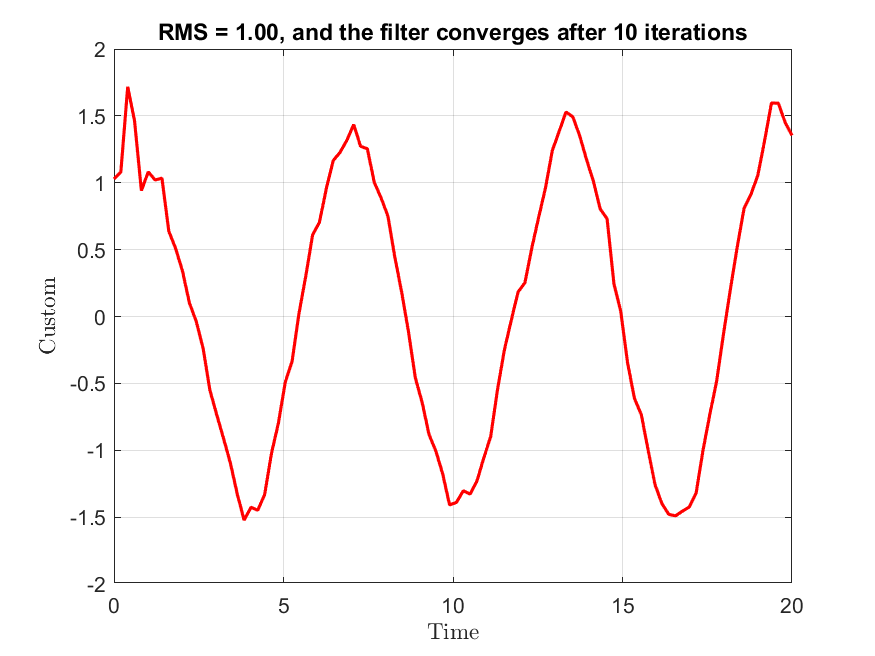
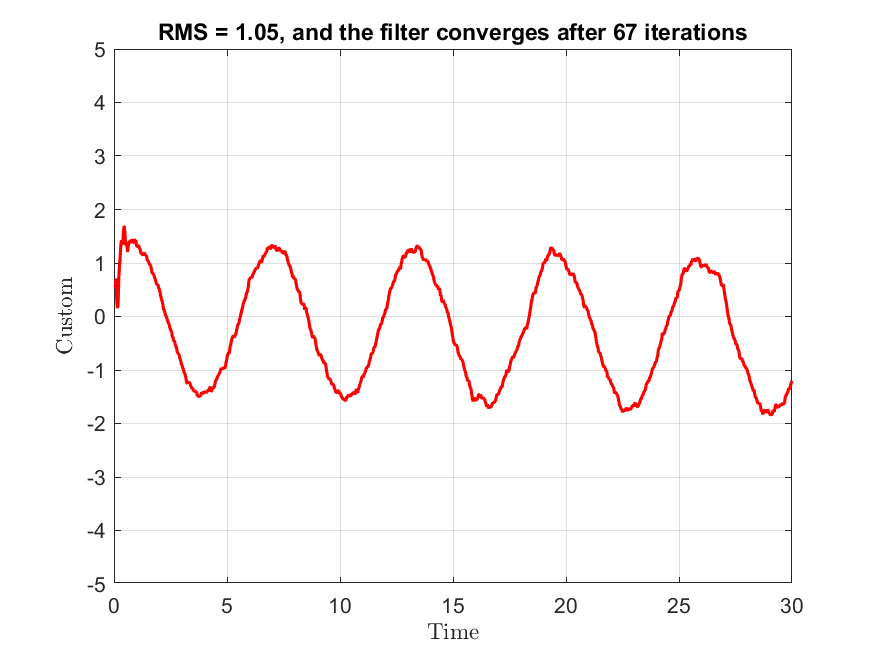
Modified the model and the ground truth

diff --git a/examples/test.m b/examples/test.m
@@ -1,13 +1,14 @@
 clc; clear; close all;
 
 %% Filter configuration
+savePics = false; 
 waitbar  = true;
 n_states = 2;
-Q  = diag([0, 0.05^2]);
+Q  = diag([0, 0.02^2]);
 R  = 0.1^2;
 
 %% Filter initiation
-t_vec = linspace(0, 20, 1e2)';
+t_vec = linspace(0, 30, 1e3)';
 X_GT  = groundTruth(t_vec, [0; 1]);
 X0    = rand(2, 1);
 P0    = diag([1, 1]);
@@ -26,22 +27,27 @@ ekf.estimate(t_vec, X0, P0);
 %% Visualization
 opts = {'OneAxis', false, 'showpatch', true, 'ylabel', {'$\Delta$ Position', '$\Delta$ Velocity'}, 'ylim', []};
 ekf.plot_err(1:2, t_vec, opts, '*', 'MarkerSize', 5);
-print('./postProcessing/Error', '-dpng');
+if savePics
+    print('./postProcessing/Error', '-dpng');
+end
 
 opts = {'OneAxis', true, 'legend', {'Position', 'Velocity'}, 'ylim', [], 'pltGT', true};
 ekf.plot_states(1:2, t_vec, opts, 'LineWidth', 1.5)
-print('./postProcessing/States', '-dpng');
-
+if savePics
+    print('./postProcessing/States', '-dpng');
+end
 
 opts = {'OneAxis', false, 'ylabel', {'$\sigma_{pos}$', '$\sigma_{vel}$'}, 'ylim', []};
 ekf.plot_est_sd(1:2, t_vec, opts, '.')
-print('./postProcessing/StanderdDeviation', '-dpng');
+if savePics
+    print('./postProcessing/StanderdDeviation', '-dpng');
+end
 
-
-opts = {'ylabel', {'Custom'}, 'ylim', [-2, 2]};
+opts = {'ylabel', {'Custom'}, 'ylim', [-5, 5]};
 ekf.plot_custom(@custom_fun, t_vec, opts, '-r', 'LineWidth', 1.5)
-print('./postProcessing/CustomFunction', '-dpng');
-
+if savePics
+    print('./postProcessing/CustomFunction', '-dpng');
+end
 
 function out = custom_fun(obj)
     out = obj.Y(1, :) + obj.Y(2, :);

diff --git a/examples/groundTruth.m b/examples/groundTruth.m
@@ -5,8 +5,9 @@ x0_2 = X0(2);
 
 validateattributes(t, {'numeric'}, {'size', [nan, 1]});
 
-x1 = sin(t) + (1- x0_2)*t + x0_1;
-x2 = cos(t) + (1 - x0_2);
+rnd_vel = normrnd(0, 0.02);
+x1 = sin(t) + (1- x0_2)*t + x0_1 + rnd_vel*t;
+x2 = cos(t) + (1 - x0_2) + rnd_vel;
 
 X  = [x1, x2];
 end

diff --git a/examples/model.m b/examples/model.m
@@ -10,5 +10,5 @@ end
 function dX = dynamics(t, X)
     dX = nan(size(X));
     dX(1) = X(2);
-    dX(2) = -sin(t) + normrnd(0, 0.05);
+    dX(2) = -sin(t);
 end
